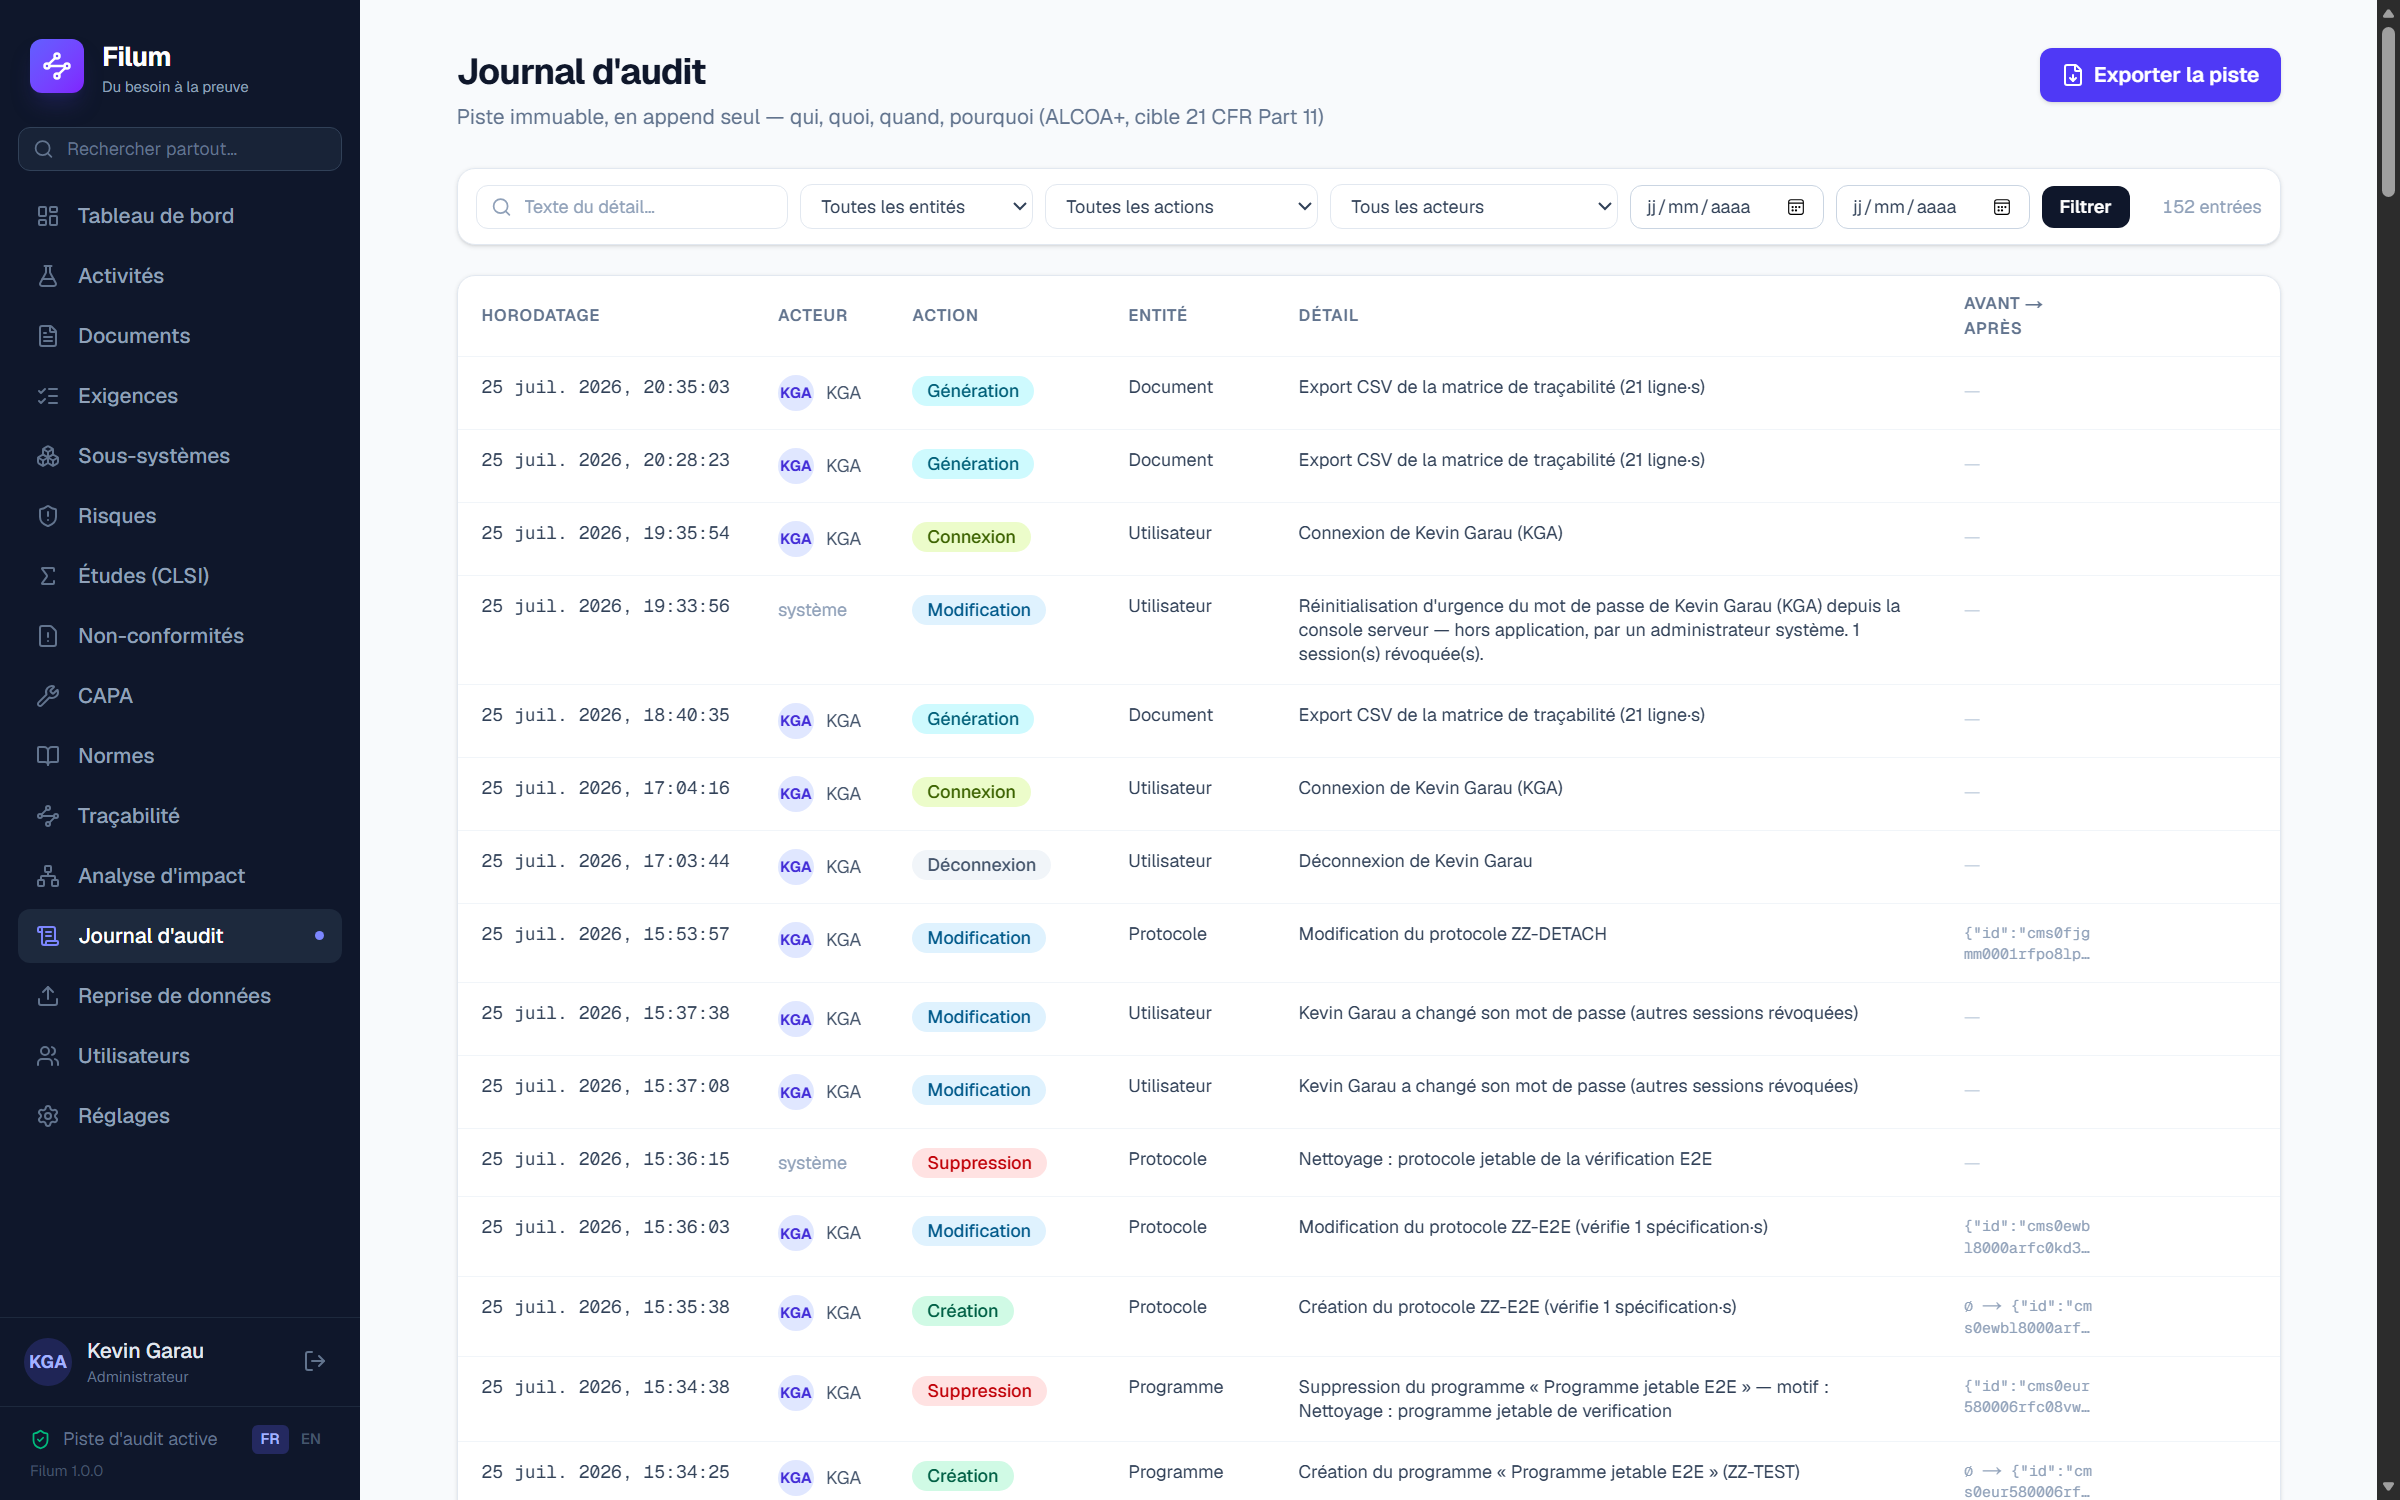
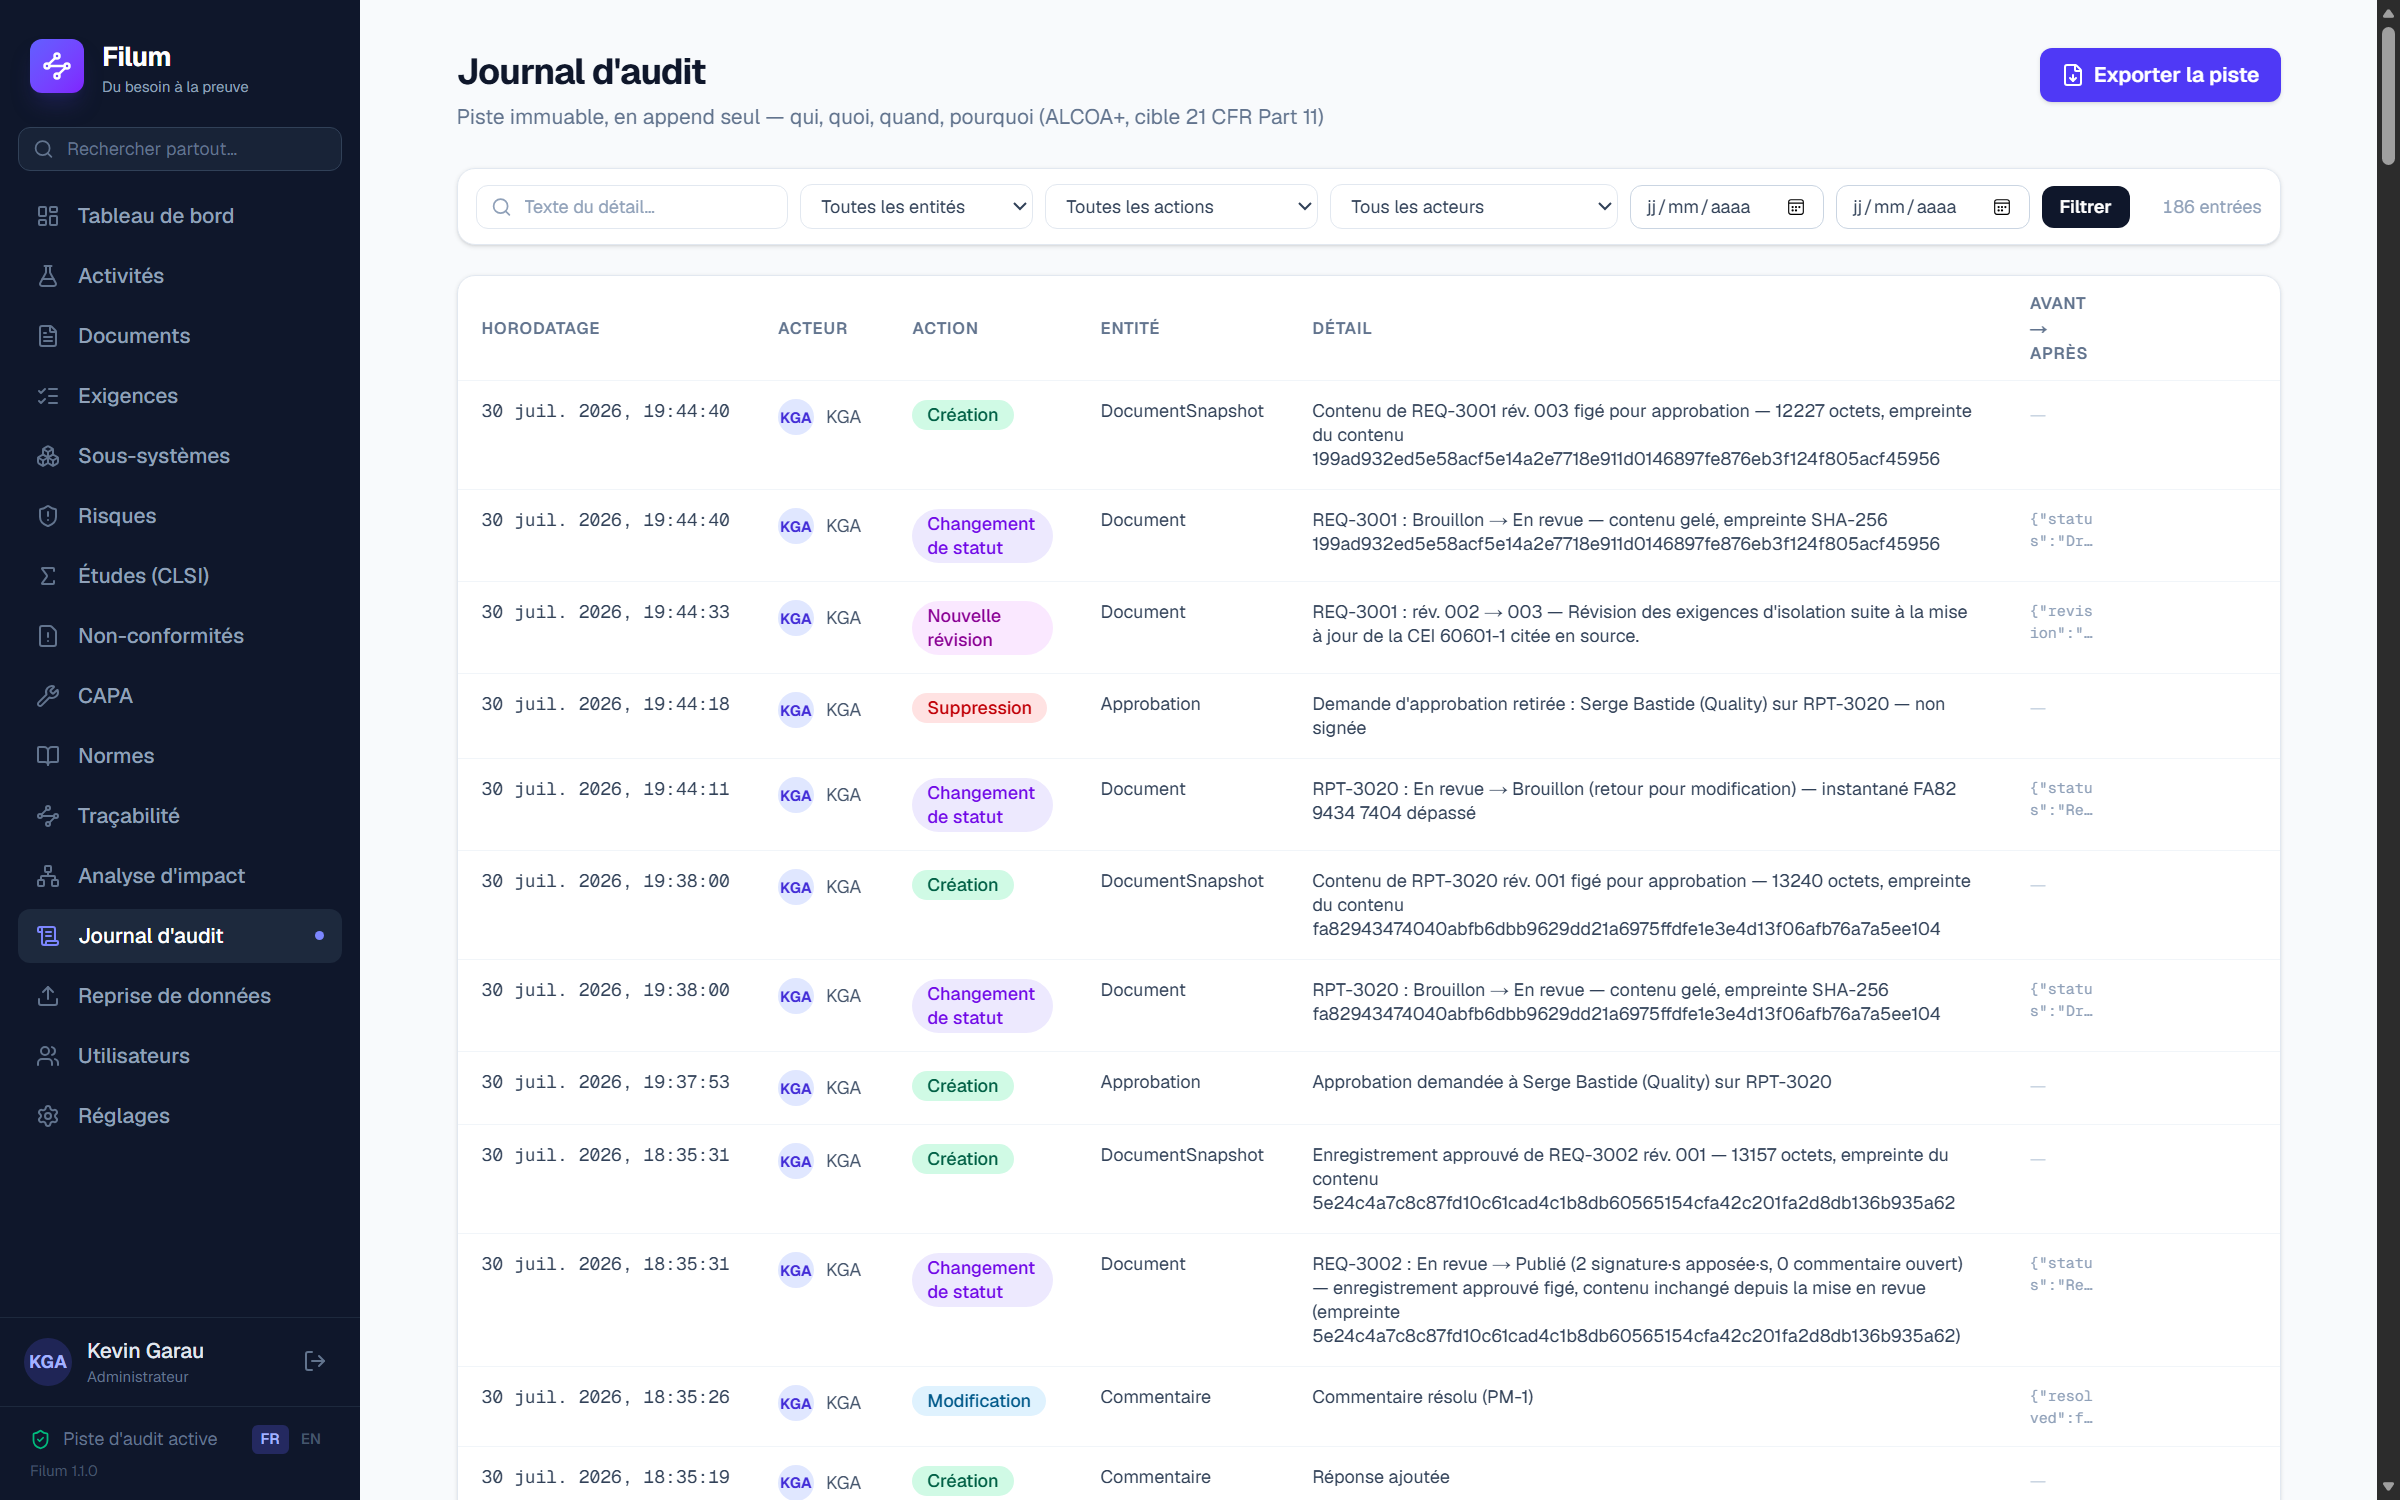
Captures à jour et légendes corrigées : le gel de contenu apparaît
L'écran document montre maintenant REQ-3002 publié avec son enregistrement figé —
empreinte SHA-256 en entier, dates de gel et de production, téléchargement de
l'enregistrement. La légende disait « REQ-3002 en revue » : elle se démentait d'un
coup d'œil sur l'image.

La légende de la signature mentionne l'empreinte du contenu attesté (21 CFR 11.70),
celle de la piste d'audit le gel de contenu et son empreinte à chaque étape.

🤖 Generated with [Claude Code](https://claude.com/claude-code)

diff --git a/index.html b/index.html
@@ -166,7 +166,7 @@
         <button class="ttab active" data-shot="tableau-de-bord" data-caption="La couverture de vérification, les risques et les non-conformités ouvertes — recalculés en continu, et tout ce qui manque en premier.">
           <strong>Tableau de bord</strong><span>Piloter le dossier en temps réel</span>
         </button>
-        <button class="ttab" data-shot="document" data-caption="REQ-3002 en revue : contenu gelé, signatures électroniques attribuables, génération Word en un clic. Un retour au brouillon invalide les signatures — jamais l'inverse.">
+        <button class="ttab" data-shot="document" data-caption="REQ-3002 publié : l'enregistrement approuvé est conservé octet pour octet, avec l'empreinte SHA-256 du contenu que chaque signature atteste. Le téléchargement sert ces octets — il ne régénère pas le document.">
           <strong>Le document vivant</strong><span>Cycle Brouillon → Revue → Publié</span>
         </button>
         <button class="ttab" data-shot="plan-de-test" data-caption="PLN-3010 : protocoles, résultats et preuves reliés aux spécifications. Import CSV du banc d'essai — n, moyenne, écart-type calculés automatiquement.">
@@ -187,10 +187,10 @@
         <button class="ttab" data-shot="import" data-caption="Votre dossier existant entre depuis un fichier CSV. Les liens se résolvent avec VOS codes. Aperçu à blanc avant toute écriture : ce qui serait créé, mis à jour, rejeté — et pourquoi, ligne par ligne.">
           <strong>Reprise de données</strong><span>Sans ressaisir 400 exigences</span>
         </button>
-        <button class="ttab" data-shot="signature" data-caption="Le mot de passe est redemandé à chaque signature (21 CFR 11.200(a)(1)), et la manifestation porte le nom imprimé figé, la signification et l'horodatage UTC (11.50). Un échec est journalisé et compte dans le verrouillage du compte.">
+        <button class="ttab" data-shot="signature" data-caption="Le mot de passe est redemandé à chaque signature (21 CFR 11.200(a)(1)). La manifestation porte le nom imprimé figé, la signification, l'horodatage UTC (11.50) et l'empreinte du contenu attesté (11.70). Un échec est journalisé et compte dans le verrouillage du compte.">
           <strong>Signature électronique</strong><span>Deux composants, à chaque fois</span>
         </button>
-        <button class="ttab" data-shot="audit" data-caption="Chaque écriture, signature, génération et connexion — attribuée, horodatée, immuable (ALCOA+), avec annulation ciblée pour corriger sans effacer.">
+        <button class="ttab" data-shot="audit" data-caption="Chaque écriture, signature, gel de contenu, génération et connexion — attribuée, horodatée, immuable (ALCOA+), avec l'empreinte de l'enregistrement à chaque étape et une annulation ciblée pour corriger sans effacer.">
           <strong>Journal d'audit</strong><span>Qui, quoi, quand, pourquoi</span>
         </button>
       </div>
